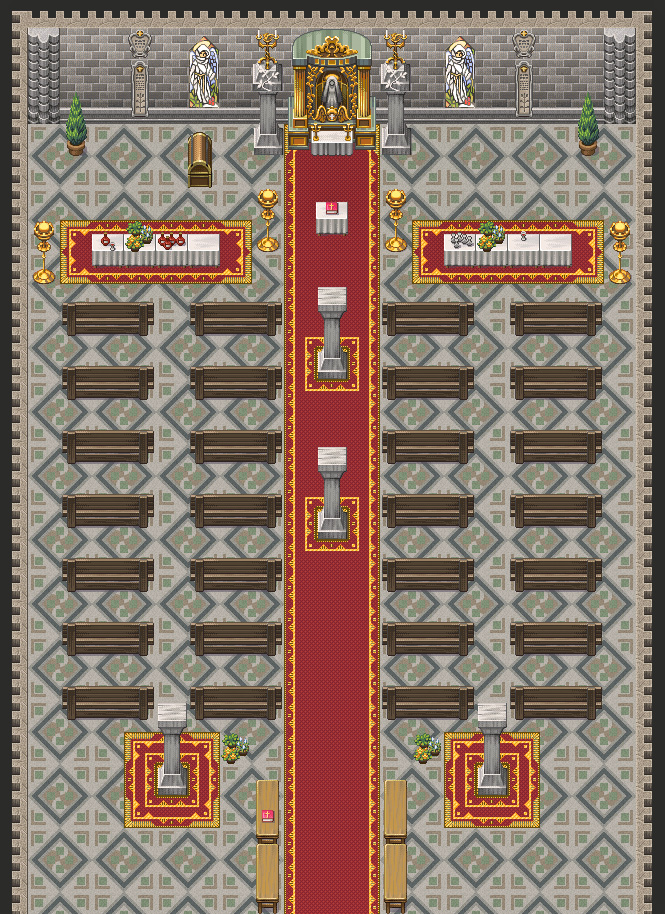
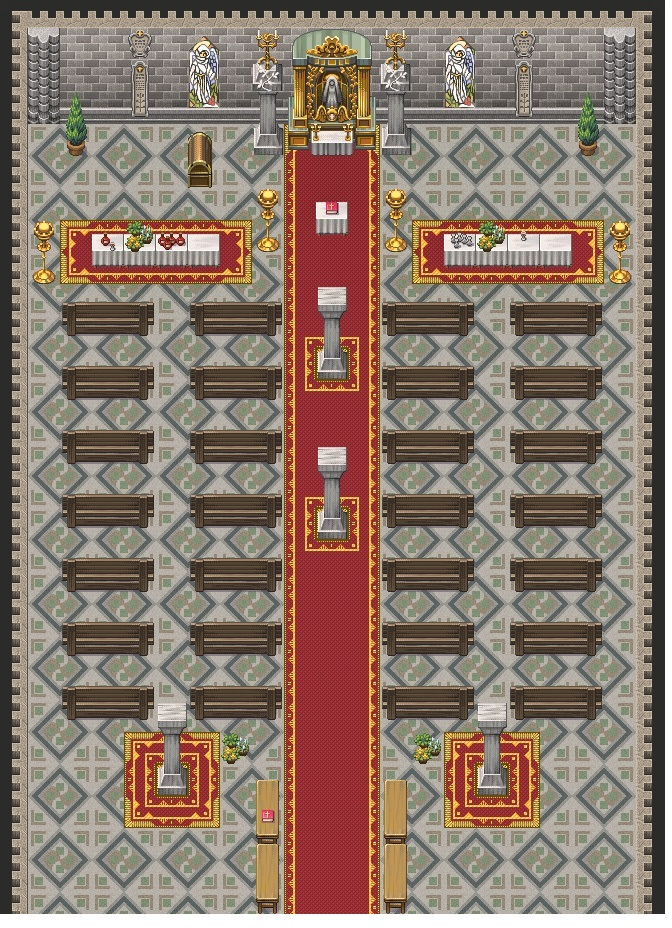
Modification Eglise -terminée-

diff --git a/MedievalWorldQuest/src/modules/main/server/player.ts b/MedievalWorldQuest/src/modules/main/server/player.ts
@@ -1,3 +1,4 @@
+import { RpgSound } from '@rpgjs/client/lib/Sound/RpgSound';
 import { RpgPlayer, RpgPlayerHooks, Control, Move } from '@rpgjs/server'
 import { Mage } from './database/classes/Mage';
 import { speech } from './database/dialogue/MenestrelTownSpeech'
@@ -25,13 +26,12 @@ export const player: RpgPlayerHooks = {
         player.name = "Olgus"
         player.addItem(Potion);
         await player.setHitbox(20, 16) 
-        await player.setGraphic('heroBlueHair');
         if (player.getVariable("maitreClasses_speech") == null) { // debut du jeu
             await player.setGraphic('base');
-            await player.changeMap('citeOnirique');
+            //await player.changeMap('citeOnirique');
+            //await player.changeMap('MenestrelTown');
             player.setClass(Mage);
-           // await player.changeMap('MenestrelTown');
-            //await player.changeMap('Eglise_carte')
+            await player.changeMap('Eglise')
         }
 
     },

diff --git a/MedievalWorldQuest/src/modules/main/server/maps/CiteOnirique.ts b/MedievalWorldQuest/src/modules/main/server/maps/CiteOnirique.ts
@@ -4,7 +4,6 @@ import classes from '../database/classes/index'
 import events from '../events/CiteOnirique/index'
 
 @MapData({
-
     id: 'citeOnirique',
     file: require('./tmx/CiteOnirique.tmx'),
     name : 'citeOnirique',       
@@ -14,7 +13,7 @@ import events from '../events/CiteOnirique/index'
         events.MaitreClasses,
         events.Teleporteur({
             name: 'Teleporteur',
-            nameMap: "MenestrelTown",
+            nameMap: 'MenestrelTown',
         }),
         events.GeneratorClass({
             name: 'mageClass',
@@ -48,7 +47,7 @@ import events from '../events/CiteOnirique/index'
             textAccept: speech.textAcceptWarrior,
             textReject: speech.textRejectWarrior
         }),
-        events.Combat
+        //events.Combat
 
     ],
 })

diff --git a/MedievalWorldQuest/src/modules/main/server/maps/MenestrelTown.ts b/MedievalWorldQuest/src/modules/main/server/maps/MenestrelTown.ts
@@ -1,4 +1,5 @@
-import { RpgMap, MapData } from '@rpgjs/server'
+import { RpgSound } from '@rpgjs/client'
+import { RpgMap, MapData,RpgPlayer } from '@rpgjs/server'
 
 import { speech } from '../database/dialogue/MenestrelTownSpeech'
 import Items from '../database/items'
@@ -168,4 +169,6 @@ import { Monster } from '../events/Monsters'
     ],
     sounds: ['town']
 })
-export class MenestrelTown extends RpgMap { }
+export class MenestrelTown extends RpgMap {
+
+ }

diff --git a/MedievalWorldQuest/src/modules/main/client/maps/Eglise.ts b/MedievalWorldQuest/src/modules/main/client/maps/Eglise.ts
@@ -3,9 +3,10 @@ import { Spritesheet } from '@rpgjs/client'
 
 @Spritesheet({
     images: {
+        Eglise1: require('./assets/Eglise1.jpg'),
         eglise3: require('./assets/eglise3.png'),
         maison2: require('./assets/maison2.png'),
-        mur2: require('./assets/mur2.png'),
+        tuilesGlobale: require('./assets/tuilesGlobale.png'),
         TestEglise: require('./assets/TestEglise.png'),
         // here, you can add other tileset
     }

diff --git a/MedievalWorldQuest/src/modules/main/server/events/Teleporteur.ts b/MedievalWorldQuest/src/modules/main/server/events/Teleporteur.ts
@@ -20,10 +20,7 @@ export function Teleporteur(options): object {
 
         async onPlayerTouch(player: RpgPlayer) {
                 await player.changeMap(options.nameMap);
-                await timeout(1000);
-                for (let msg of text) {
-                    await player.showText(msg);
-                }
+
         }
 
     }

diff --git a/MedievalWorldQuest/src/modules/main/client/sounds/CiteOniriqueMusic.ts b/MedievalWorldQuest/src/modules/main/client/sounds/CiteOniriqueMusic.ts
@@ -1,6 +1,7 @@
 import { Sound } from '@rpgjs/client'
 
 @Sound({
+    id: 'musicCiteOnirique',
     sounds: {
         citeOnirique: require('./assets/CiteOnirique.ogg'),
     },

diff --git a/MedievalWorldQuest/src/modules/main/client/sounds/TownMusic.ts b/MedievalWorldQuest/src/modules/main/client/sounds/TownMusic.ts
@@ -1,6 +1,7 @@
 import { Sound } from '@rpgjs/client'
 
 @Sound({
+    id: 'musicTown',
     sounds: {
         town: require('./assets/MenestrelTown.ogg'),
     },

diff --git a/MedievalWorldQuest/src/modules/index.ts b/MedievalWorldQuest/src/modules/index.ts
@@ -17,8 +17,8 @@ export default [
 
     mobileGui,
     gamepad, 
-    chat,
-    Combats,
+    //chat,
+    //Combats,
     //titleScreen,
     save
     
